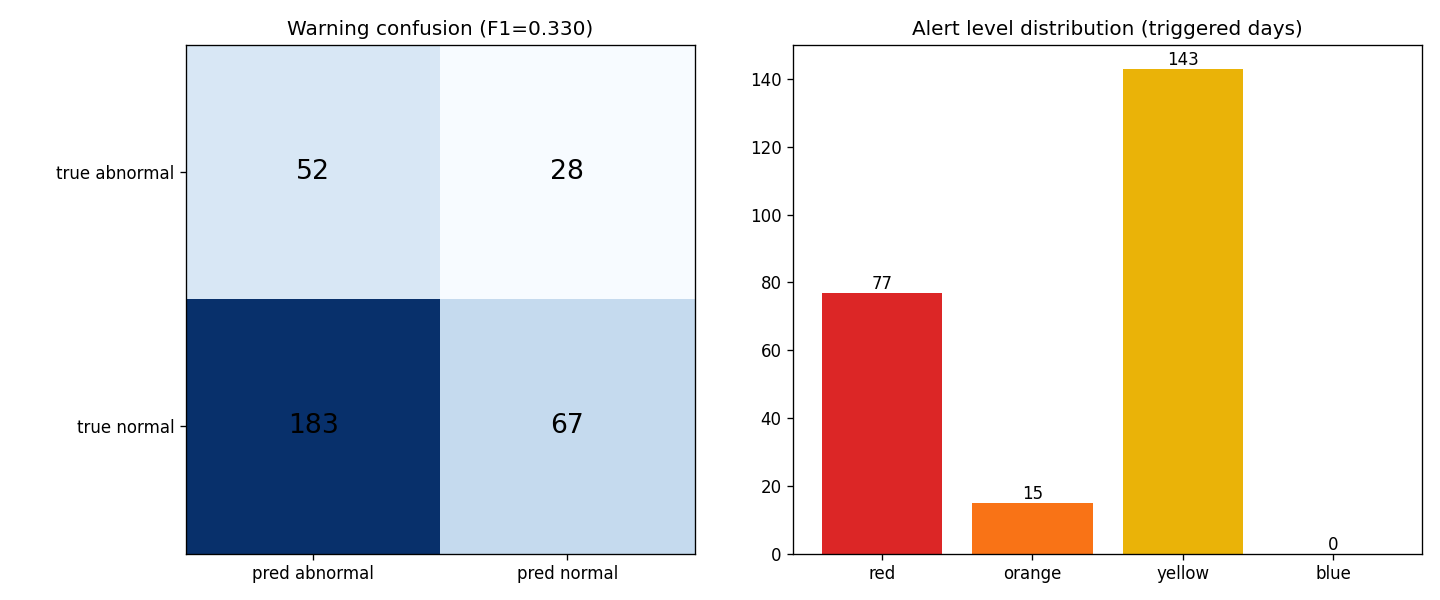
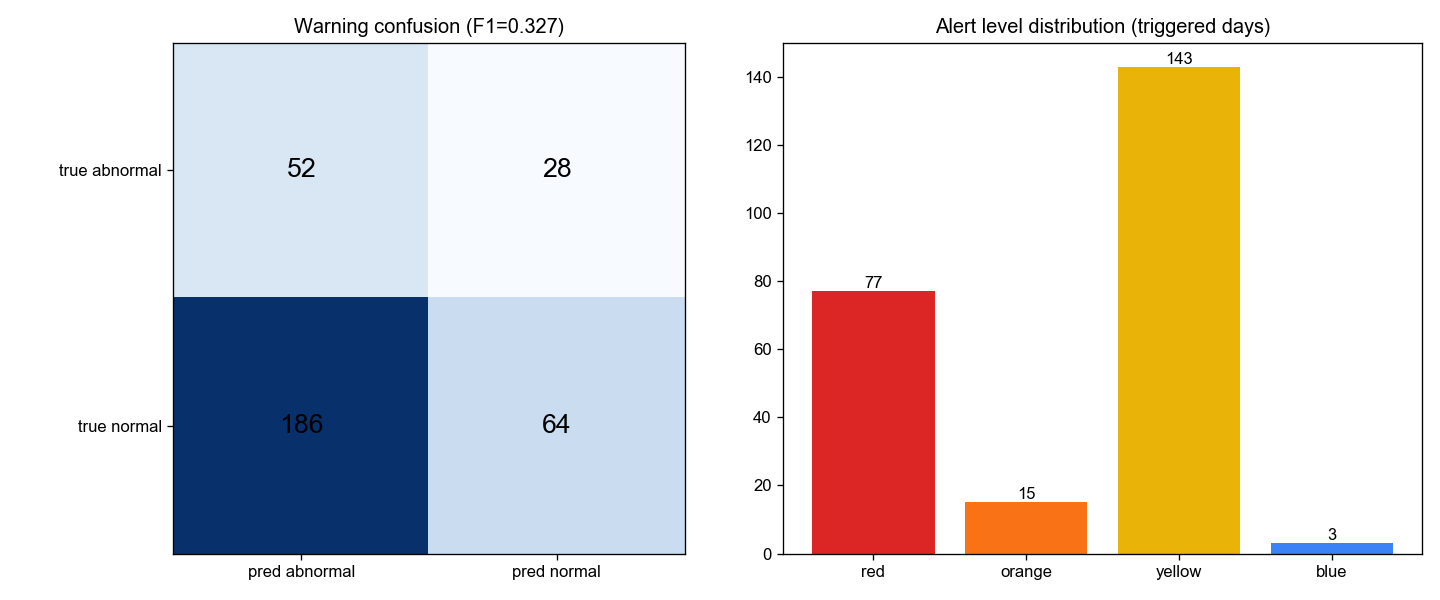
feat(be): 预警补蓝色档让 blue 可触发 + 重跑回测(误报率 74.4%,D-045)
- 趋势规则拆 blue/yellow 两档:T-01/T-02 保持≥50%→yellow,新增 T-03/T-04
  涨幅[20%,50%)→blue「轻微波动·日常关注」;原 blue 无任何规则产出、恒为 0
- engine 趋势循环改半开区间 [rise_ratio, rise_ratio_max),同一气体只命中所在档
- 重跑 backtest:误报率 73.2%→74.4%(blue 3 条全落 FP),召回 0.65 不变,
  混淆 TP52/FP186/FN28/TN64(原 3 个 TN 转 blue 的 FP),level_distribution blue 0→3
- 文档:决策日志 D-045 + 07/dev-plan/论文梳理 误报率同步 74.4%(历史值保留标注)
- 守边界 D-008:blue message 只讲气体/涨幅/前后值,无故障类型
- 核验:pytest test_warning 20 passed;指标读 json 亲核;labeled_iec.csv md5 未变

diff --git a/BE/app/algorithms/warning/engine.py b/BE/app/algorithms/warning/engine.py
@@ -190,7 +190,10 @@ def evaluate(
             # 已超标的交给硬/软规则,这里只管「未超标但涨势明显」
             if cur_v > 0 and not _exceeds(last_values, item, thresholds):
                 rise = (fut_v - cur_v) / cur_v
-                if rise >= r["rise_ratio"]:
+                # 半开区间 [rise_ratio, rise_ratio_max):同一气体只命中其所在档
+                # (blue 20~50% / yellow ≥50%),避免一个气体既报 blue 又报 yellow
+                rise_max = r.get("rise_ratio_max")
+                if rise >= r["rise_ratio"] and (rise_max is None or rise < rise_max):
                     triggered.append({
                         "rule_id": r["id"], "rule_type": "soft",
                         "level": r["level"],

diff --git a/docs/05-decisions-log.md b/docs/05-decisions-log.md
@@ -5,6 +5,24 @@
 
 ---
 
+## 2026-06-23 预警四级补齐蓝色档(blue 原恒空)+ EDA 图字体/口径修复(D-045)
+
+### D-045:趋势规则拆「蓝/黄」两档让 blue 可触发;统一脚本中文字体 + EDA 图正名 DL/T 722/μL/L
+
+- **触发**:全栈巡检暴露两类产物层遗留——① 预警四级分布里 blue 恒为 0(评委会问「为什么蓝色没数据」);② notebooks/figures 的 EDA 图中文全渲染成豆腐块,且标题/轴残留 D-044 前旧口径(IEC 60599 / ppm)。D-044 全栈对齐时漏了绘图脚本这一层。
+- **blue 恒空根因**:rules.yaml 三类规则产出 red/orange/yellow,**无任何规则的 level 是 blue**——blue 只在 levels 元信息里定义、却没有判据实现它,故设计上就触发不了(非数据巧合)。
+- **决策(用户选 A:让 blue 真正可触发,而非据实保留空档)**:趋势规则按涨幅拆两档,补上原先无人覆盖的「轻微上升」区间——
+  1. T-01/T-02 保持「涨幅 ≥ 50% → yellow」,加 `rise_ratio_max: null`(无上限);
+  2. 新增 T-03/T-04「涨幅 [20%, 50%) → blue 轻微波动,日常关注」;
+  3. engine 趋势循环改用半开区间 `[rise_ratio, rise_ratio_max)`,保证同一气体只命中其所在档(涨 60% 只报 yellow 不重复报 blue)。
+- **指标影响(选 A 的预期代价,如实记)**:重跑 backtest 后 **误报率 73.2%→74.4%**(blue 的 3 条全落 FP:轻微波动非真异常),召回 0.65 不变、F1 0.330→0.327;混淆 TP52/FP183/FN28/TN67 → TP52/**FP186**/FN28/**TN64**(原 3 个 TN 转为 blue 的 FP),自洽可解释;level_distribution red77/orange15/yellow143/**blue3**;n_alerts 235→238。blue 3 条均为 T-04(总烃轻微上升 31~39%),message 据实带数值、守边界无故障类型。
+- **EDA 图修复(产物层,与 D-044 口径对齐)**:新建 `BE/scripts/_plot_style.py` 共享中文字体配置(Arial Unicode MS 首选 + 备选链 + 关 unicode_minus),4 个绘图脚本统一调用;`eda.py` 图标题「IEC 60599 三比值法」→「三比值法(DL/T 722-2014 表7)故障归类分布」、轴 `log10(ppm)`→`log10(μL/L)`、suptitle 加顶部留白(原被裁)。n=743 保留(原始数据探索,非过期)。5 张图全部重生成。
+- **核验**:engine 冒烟「涨30%→blue/涨60%→yellow」分档正确;`pytest tests/test_warning.py` 20 passed 无回归;backtest 指标读 json 亲核(level_distribution blue=3、fpr=0.744);`labeled_iec.csv` 重跑后 md5 与备份一致(ground truth 未变);FE build 通过(blue 自动显示无需改码)。
+- **守边界 D-008**:blue 规则 message 只讲「哪个气体/涨多少/前后值/日常关注」,零故障类型词。
+- **待同步**:`docs/07`/`论文梳理`/`dev-plan` 误报率 73.2%→74.4%(连带混淆矩阵 FP/TN、n_alerts);四级分级叙事补「blue 可触发」。
+
+---
+
 ## 2026-06-18 三比值法对齐 DL/T 722-2014(表6编码+表7判断) + CO/CO₂ 改比值法 + 打标改表3二分 + 全链路重跑(D-044)
 
 ### D-044:三比值法故障归类 IEC→DL/T 722-2014 表7(方法整体为表6编码+表7判断)全栈对齐;CO/CO₂ 改 §10.2.3.1 比值判据;ground truth 打标改「表3二分+表7细分」;全数据重新合成+全模块重跑

diff --git a/docs/02-dev-plan.md b/docs/02-dev-plan.md
@@ -14,7 +14,7 @@
 | 前端联调 | ✅ | vite proxy + `api/data.py`(已守系统边界,只回 is_abnormal) |
 | 模块 3 检测 | ✅ | 三方法齐全 + `compare_detection.py` + 混淆矩阵图 + 后端 `/api/detect/*`(D-020/021);DetectionView 全接真(D-039:三方法投票表/删PCA/补CO₂/判定取后端/三比值方法论说明)|
 | 模块 4 预测 | ✅ | `predict/` + `train_lstm.py`/`compare_predict.py` + `test_predict.py`(14 用例)+ `/api/predict/compare` + PredictionView 接真。实测 ARIMA 优于 LSTM(D-027~031;D-044 新数据重跑:ARIMA 胜 6/7,MAE 148 vs 160)|
-| 模块 5 决策 | ✅ | `warning/`(rules.yaml/engine/dedup)+ `test_warning.py`(20 用例)+ `backtest.py` + `/api/warning/backtest` + AlertsView 工单工作台(D-032~035)。误报率 73.2%(D-044 全链路重跑;CO/CO₂ 改 §10.2.3.1 比值法 C-02);残余误判为早期/轻微异常边界样本(D-044)|
+| 模块 5 决策 | ✅ | `warning/`(rules.yaml/engine/dedup)+ `test_warning.py`(20 用例)+ `backtest.py` + `/api/warning/backtest` + AlertsView 工单工作台(D-032~035)。误报率 74.4%(D-045 补 blue 档;D-044 全链路重跑为 73.2%;CO/CO₂ 改 §10.2.3.1 比值法 C-02);残余误判为早期/轻微异常边界样本(D-044);四级分级 blue 档由趋势规则 T-03/T-04 触发(D-045)|
 | 模块 6 Agent | ✅ | `agent/`(tools 4工具/prompt ReAct 5步/runner 执行+降级)+ `/api/agent/run` + `run_agent_demo.py` 预跑落盘 7 条 + AlertsView 工单轨迹/通知接真(D-041,提前至第7周)。ReAct 跑通约13s;边界双保险(Prompt+黑名单)实测捕获过 LLM 越界 |
 | 模块 7 大屏 | ✅ | Dashboard/Detection 接真(D-022/023/025);Prediction 据实改形接真(D-031:ARIMA 胜);Alerts 预警工单工作台(D-035:全量228条+分页+筛选/排序/搜索;详情拆预警信息+`AgentTrace.vue`[ReAct三要素,模块6接真]+AI通知示意块D-037);**Analysis 据实重做「三层数据体系」(D-038:回归原始意图非评测页;删 IEC 故障码越界块;第1层七气体+第2层特征工程(总烃/产气速率/三比值,补展示缺口)+第3层工况全接真;后端F1扩 `/data/latest` 加 features;摘规划中横幅)**;**模块7 全页接真闭环,无规划中横幅**(仅 Agent 轨迹/AI通知挂示意标待模块6) |
 
@@ -112,7 +112,7 @@
 | 四级分级(红橙黄蓝) | 同上(LEVEL_ORDER 取最高) | ✅ B1(D-032) |
 | 误报控制:连续 N 次触发 + 24h 去重 | `algorithms/warning/dedup.py` | ✅ B1(D-032) |
 | 算法层单元测试 | `tests/test_warning.py`(17 用例) | ✅ B1(D-032) |
-| 历史回测(360 天合成时序) | `scripts/backtest.py` + `warning_backtest.json` + 图 | ✅ B2(D-033;D-044 重跑误报率 73.2%/召回 0.65,残余为早期异常边界样本)|
+| 历史回测(360 天合成时序) | `scripts/backtest.py` + `warning_backtest.json` + 图 | ✅ B2(D-033;D-044 重跑误报率 73.2%/召回 0.65,残余为早期异常边界样本;D-045 补 blue 档后 74.4%)|
 | AlertsView 对接 | `/api/warning/backtest` + 接真 + 摘横幅 | ✅ C(D-034,工单接真+清越界+Agent标规划中)|
 
 **🎯 回测基准**(D-033 修订):原始快照无时间维,无法回测时序预警。改用 **360 天合成时序**,以**合成真值 `fault_state`** 算 TP/FP/FN(与检测模块 D-020 同一基准)→ 论文素材。当日对齐口径;软规则预测源 ARIMA(D-032)。CO/CO₂ 不再设绝对硬规则,改 §10.2.3.1 CO₂/CO 比值组合判据(D-044)。

diff --git a/docs/07-failure-analysis.md b/docs/07-failure-analysis.md
@@ -109,7 +109,7 @@ Isolation Forest:无监督,不偏任何规则口径
 ### 📊 现象分析
 ```
 预期:预警误报应尽量低
-实际:误报率 73.2%(召回 0.65;混淆 TP=52 FP=183 FN=28 TN=67,330 天回测,D-044)
+实际:误报率 74.4%(召回 0.65;混淆 TP=52 FP=186 FN=28 TN=64,330 天回测;D-044 为 73.2%/FP183/TN67,D-045 补 blue 档后 3 个 TN 转 FP)
 ```
 
 ### 🤔 为什么会这样?

diff --git a/论文梳理.md b/论文梳理.md
@@ -641,7 +641,7 @@ Step 5: 综合结果，按标准格式生成预警通知
 - **真实新数字**(全部经磁盘/前台重跑亲核):
   - 检测三方法:阈值法(表3)F1 0.659/召回0.670/误报0.123;三比值法(DL/T 722-2014)召回**0.813**/误报0.494/F1 0.497;iForest F1 0.608。
   - 融合(≥2票)F1 **0.649**,**优于 iForest(0.608)**、与阈值法(0.659)相当。
-  - 预警回测:误报率 **73.2%**、召回0.65(TP52/FP183/FN28/TN67)。
+  - 预警回测:误报率 **73.2%**、召回0.65(TP52/FP183/FN28/TN67)。【D-045 补预警蓝色档(趋势 T-03/T-04,涨幅 20~50%)后:74.4%、TP52/FP186/FN28/TN64,blue 由 0→3】
   - 预测:ARIMA 胜 6/7,总体 MAE 148.3 vs LSTM 160.4(旧为全胜7/7、301 vs 936)。
   - 可分性:co0.14/h20.21/c2h2 0.43/c2h4 0.61/ch4 0.69/co2 0.81/c2h6 0.96;异常总烃中位 179(>150)、未超国标占比 66%→41%。
 - **⚠️ 推翻修订12「弱可分统一根因」+ 修订8 程度 + 修订12「融合未优」**(本条最重要的诚实修正):